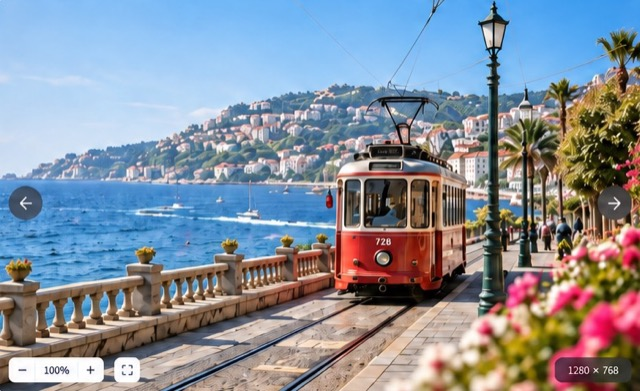
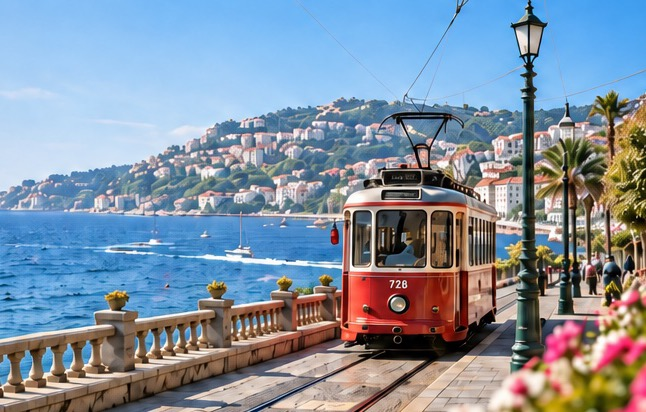
Fit the comic steps on a phone; give the demo comic drafts and clean images
On narrow screens the four comic steps sit in one row of equal columns
instead of wrapping mid-sequence. Demo mode gains two comic drafts (a
four-panel page with dialogue and a direct page), a composed comic page
for classic comic results, and sample images recropped without the
design boards' interface chrome.

Claude-Session: https://claude.ai/code/session_01LZr31XbewuQWk1buSr2Qym

diff --git a/web/src/demo/api.ts b/web/src/demo/api.ts
@@ -2,6 +2,8 @@
 // acceptance (demo mode, VITE_DEMO=1) and Playwright tests. Pure: images
 // are resolved by the caller; state lives in the returned instance.
 
+import type { ComicDocument } from '../lib/comicDocument'
+
 export interface DemoResponse {
   status: number
   body?: unknown
@@ -78,7 +80,7 @@ const BUCKET: Record<string, string[]> = {
 }
 const STATUSES = ['queued', 'running', 'awaiting_review', 'succeeded', 'partial', 'failed', 'cancelling', 'cancelled']
 
-const IMAGES = ['tram-1', 'tram-2', 'tram-3', 'tram-4', 'tram-hero', 'cat', 'sunset', 'lemon', 'bay', 'night', 'alpine', 'portrait']
+const IMAGES = ['tram-1', 'tram-2', 'tram-3', 'tram-4', 'tram-hero', 'cat', 'sunset', 'lemon', 'bay', 'night', 'alpine', 'portrait', 'comic-page']
 const CLIPS = ['clip-1', 'clip-2', 'clip-3']
 
 const SPECS: Record<string, Record<string, unknown>> = {
@@ -155,6 +157,8 @@ export function createDemoApi(img: Img) {
   ]
   // Library state: which assets are in the trash, and each one's project.
   const PROMPTS: Record<string, string> = {
+    'comic-page': '柠檬汽水四格漫画',
+    'tram-hero': '在阳光明媚的海滨城市，一辆红色的有轨电车行驶在靠海的街道上，远处是蓝色的海水和山城。',
     'tram-1': '海边小镇的有轨电车', 'tram-2': '街道上的复古电车', 'tram-3': '山坡上驶过的电车', 'tram-4': '盛开的花与海边电车',
     cat: '午后阳光下的猫咪', sunset: '日落时分的海面', lemon: '柠檬树的特写', bay: '海湾帆船', night: '霓虹城市夜景', alpine: '雪山湖泊全景', portrait: '人物写真',
     'clip-1': '电车缓缓驶入画面', 'clip-2': '海边咖啡馆的露台', 'clip-3': '日落时分的海岸小镇',
@@ -174,6 +178,28 @@ export function createDemoApi(img: Img) {
       project_id: assetProject.get(id) ?? (at % 3 === 2 ? '' : 'P1'), is_public: published.has(id), prompt: id === 'portrait' ? '' : (PROMPTS[id] ?? ''),
     }
   }
+  // Comic drafts: a four-panel page with dialogue, and a direct full page.
+  const bubble = (id: string, x: number, y: number, text: string, tail: 'left' | 'right' | 'none' = 'left', w = 0.2) => ({
+    id, kind: 'bubble' as const, x, y, w, h: tail === 'none' ? 0.07 : 0.1, text, font_size: 26, color: '#172033', fill: tail === 'none' ? '#fef3c7' : '#ffffff', tail, locked: false,
+  })
+  const comics = new Map<string, { biz_id: string; version: number; document: ComicDocument }>([
+    ['C1', {
+      biz_id: 'C1', version: 3,
+      document: {
+        schema_version: 1, title: '海岸电车的一天', mode: 'editable', brief: '清晨，红色电车从海边小站出发，载着乘客穿过开满鲜花的街道；午后停靠在山坡小站，傍晚回到海边。',
+        background: '', context: '', references: [{ asset_id: 'tram-hero', label: '画风' }], page_asset_id: 'tram-hero', page_source: 'generated',
+        panel_asset_ids: ['tram-1', 'tram-2', 'tram-3', 'tram-4'],
+        layers: [bubble('L1', 0.03, 0.03, '早上好，出发啦！'), bubble('L2', 0.77, 0.06, '今天花开得真好。', 'right'), bubble('L3', 0.03, 0.54, '下一站，山坡小站。'), bubble('L4', 0.37, 0.45, '海岸电车 · 第 1 话', 'none', 0.26)],
+      },
+    }],
+    ['C2', {
+      biz_id: 'C2', version: 1,
+      document: {
+        schema_version: 1, title: '日落海岸', mode: 'direct', brief: '日落时分的海岸小镇，整页一幅画面。', background: '', context: '', references: [],
+        page_asset_id: 'sunset', page_source: 'generated', panel_asset_ids: ['', '', '', ''], layers: [],
+      },
+    }],
+  ])
   let nextId = 100
   const estimateOf = (r: { workflow_name?: string; spec?: Record<string, unknown> }) => {
     const spec = r.spec ?? {}
@@ -365,7 +391,7 @@ export function createDemoApi(img: Img) {
       jobs.unshift({
         biz_id: `N${id}`, id: 1000 + id, workflow_name: r.workflow_name ?? 'image.single', title: text.slice(0, 20), status: 'running',
         node_total: 1, node_done: 0, node_failed: 0, reserved: est.credits_total, settled: 0, error_code: '', created_at: new Date().toISOString(),
-        project_id: r.project_id ?? '', cover: 'tram-1', createdMs: Date.now(), assets: r.workflow_name === 'image.comic4' ? ['lemon'] : r.workflow_name === 'video.sequence' ? Array.from({ length: n }, (_, i) => CLIPS[i % CLIPS.length]) : r.workflow_name === 'video.single' ? ['clip-1'] : ['tram-1', 'tram-2', 'tram-3', 'tram-4', 'bay', 'sunset', 'cat', 'lemon', 'night'].slice(0, n), spec: r.spec,
+        project_id: r.project_id ?? '', cover: 'tram-1', createdMs: Date.now(), assets: r.workflow_name === 'image.comic4' ? ['comic-page'] : r.workflow_name === 'video.sequence' ? Array.from({ length: n }, (_, i) => CLIPS[i % CLIPS.length]) : r.workflow_name === 'video.single' ? ['clip-1'] : ['tram-1', 'tram-2', 'tram-3', 'tram-4', 'bay', 'sunset', 'cat', 'lemon', 'night'].slice(0, n), spec: r.spec,
       })
       return { status: 200, body: { biz_id: `N${id}`, status: 'running', workflow_run_id: '' } }
     }
@@ -463,6 +489,27 @@ export function createDemoApi(img: Img) {
       if (d.quote_total !== total) return { status: 409, body: { code: 'price_changed', message: 'changed', params: { credits_total: total } } }
       x.status = 'running'
       x.reserved += total
+      return { status: 204 }
+    }
+    const comic = path.match(/^\/comics\/([^/]+)$/)
+    if (path === '/comics' && method === 'GET') {
+      return { status: 200, body: { comics: [...comics.values()].map((c) => ({ biz_id: c.biz_id, title: c.document.title, version: c.version })) } }
+    }
+    if ((path === '/comics' && method === 'POST') || (comic && method === 'PATCH')) {
+      const b = body as { version: number; document: ComicDocument }
+      const id = comic?.[1] ?? `C${nextId++}`
+      const cur = comics.get(id)
+      if (cur && cur.version !== b.version) return { status: 409, body: { code: 'version_conflict', message: 'conflict' } }
+      const saved = { biz_id: id, version: (cur?.version ?? 0) + 1, document: b.document }
+      comics.set(id, saved)
+      return { status: 200, body: saved }
+    }
+    if (comic && method === 'GET') {
+      const c = comics.get(comic[1])
+      return c ? { status: 200, body: c } : { status: 404, body: { code: 'not_found', message: 'comic' } }
+    }
+    if (comic && method === 'DELETE') {
+      comics.delete(comic[1])
       return { status: 204 }
     }
     const asset = path.match(/^\/assets\/([^/]+)$/)

diff --git a/web/src/features/comic/ComicWorkspace.tsx b/web/src/features/comic/ComicWorkspace.tsx
@@ -369,16 +369,16 @@ export default function ComicWorkspace() {
           </div>
         </div>
         <div className="flex flex-wrap items-center justify-between gap-3">
-          <nav aria-label={t('steps.label')}>
-            <ol className="flex flex-wrap items-center gap-1">
+          <nav aria-label={t('steps.label')} className="w-full sm:w-auto">
+            <ol className="grid grid-cols-4 gap-1 sm:flex sm:flex-wrap sm:items-center">
               {STEPS.map((s, i) => (
-                <li key={s} className="flex items-center gap-1">
-                  {i > 0 && <span aria-hidden className="text-fg-muted">→</span>}
+                <li key={s} className="flex min-w-0 items-center gap-1">
+                  {i > 0 && <span aria-hidden className="hidden text-fg-muted sm:inline">→</span>}
                   <button
                     type="button"
                     aria-current={step === s ? 'step' : undefined}
                     onClick={() => setStep(s)}
-                    className={cn('inline-flex h-9 items-center gap-2 rounded-full px-3 text-body font-medium', step === s ? 'bg-primary-soft text-primary-text' : 'text-fg-muted hover:bg-surface-2 hover:text-fg')}
+                    className={cn('inline-flex h-9 w-full min-w-0 items-center justify-center gap-1 rounded-full px-1.5 text-caption font-medium sm:w-auto sm:gap-2 sm:px-3 sm:text-body', step === s ? 'bg-primary-soft text-primary-text' : 'text-fg-muted hover:bg-surface-2 hover:text-fg')}
                   >
                     <span className={cn('inline-flex size-5 items-center justify-center rounded-full text-badge tabular-nums', step === s ? 'bg-primary text-white' : 'bg-surface-2')}>{i + 1}</span>
                     {t(`steps.${s}`)}
